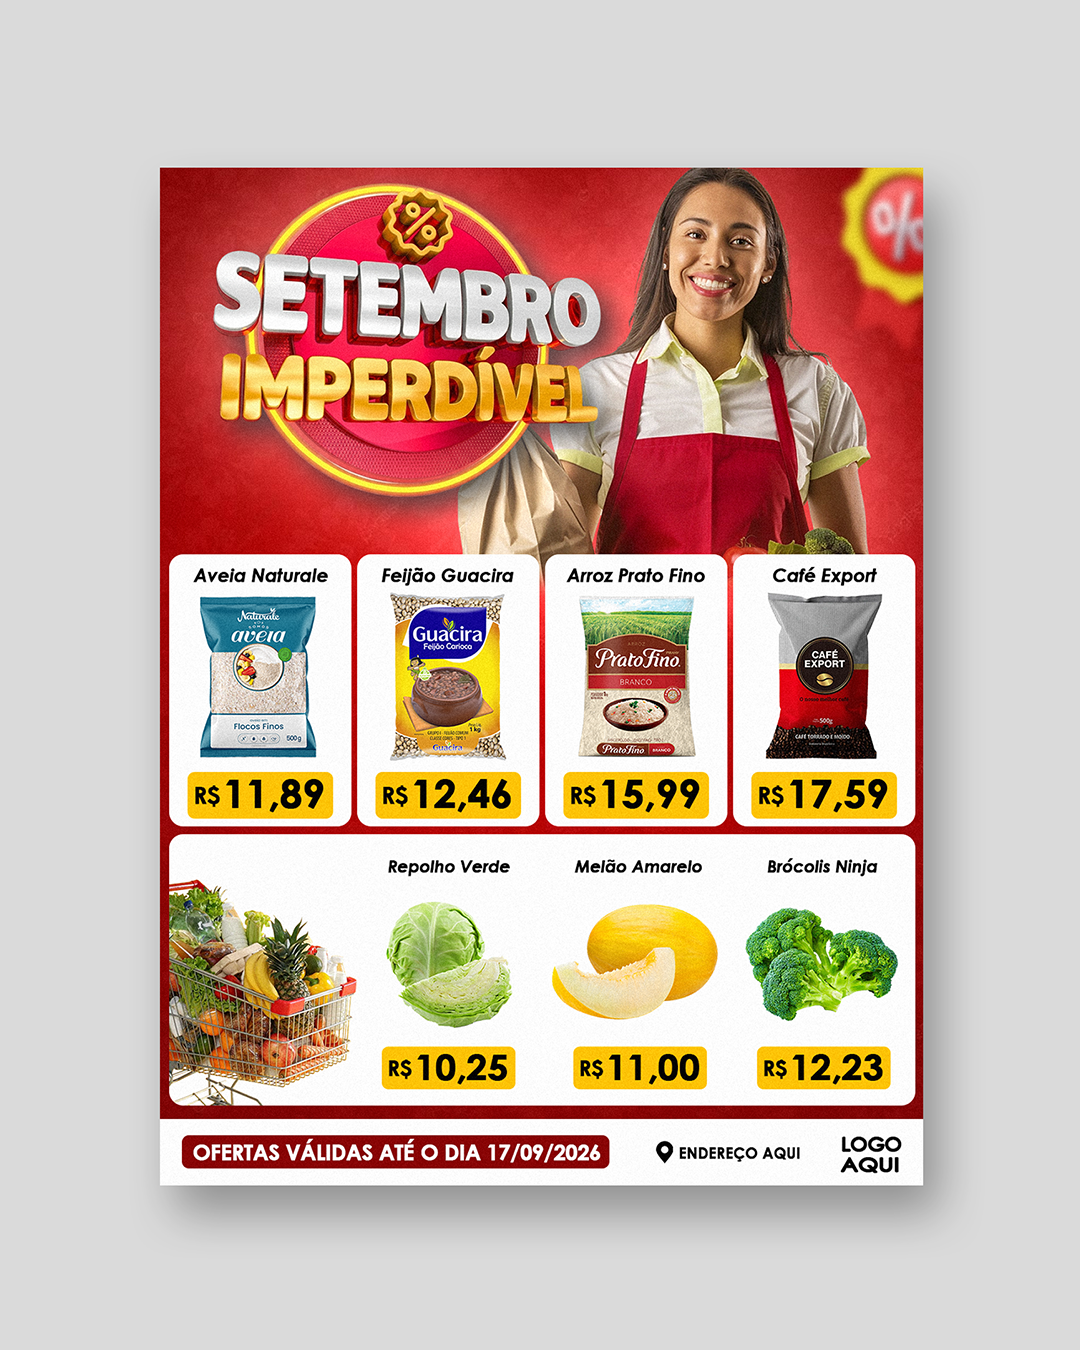
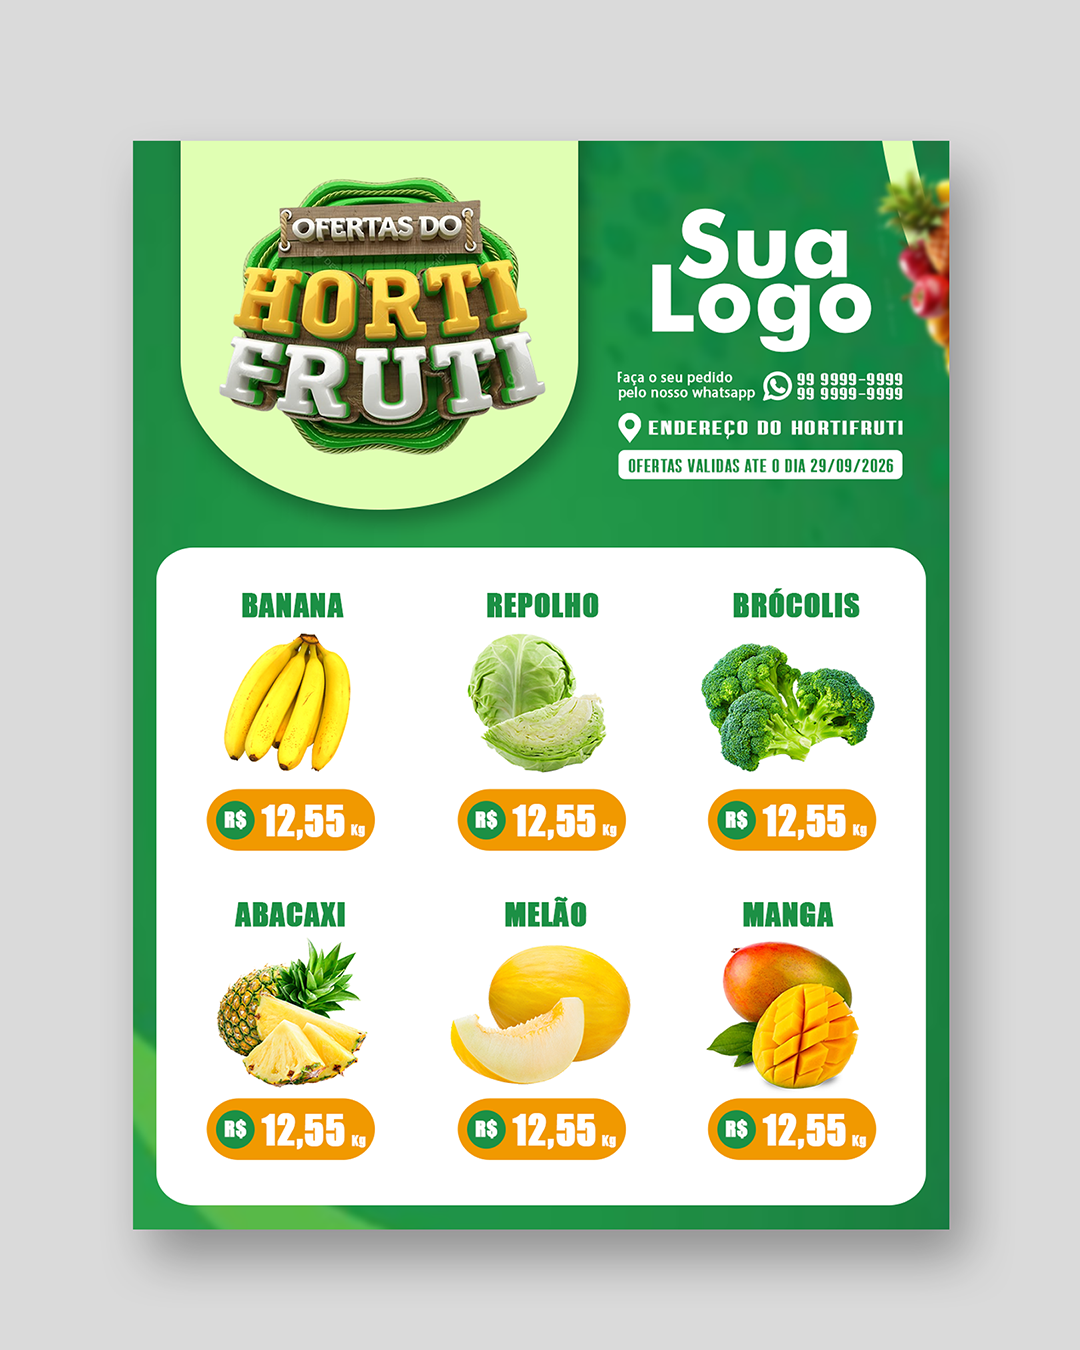
update

diff --git a/public/designer-grafico-para-encartes.html b/public/designer-grafico-para-encartes.html
@@ -1,0 +1,128 @@
+<!DOCTYPE html>
+<html lang="pt-BR">
+<head>
+    <meta charset="UTF-8" />
+    <meta name="viewport" content="width=device-width, initial-scale=1.0" />
+
+    <link rel="icon" href="./siteicon.png" type="image/png">
+    <link rel="apple-touch-icon" href="./siteicon.png">
+    <meta name="theme-color" content="#000000">
+
+    <title>Designer Gráfico para Encartes | Peça Seu Orçamento</title>
+    <meta name="description" content="Designer gráfico especializado na criação de encartes para comércio, desenvolvendo artes profissionais para divulgar produtos, preços, ofertas e promoções. Criação de encartes para supermercados, hortifrutis, açougues, mercearias e outros estabelecimentos comerciais, com layouts organizados e personalizados para divulgação digital ou impressão." />
+    <link rel="canonical" href="https://clebsondesigner.com.br/designer-grafico-para-encartes" />
+
+    <link rel="stylesheet" href="/blog.css">
+
+    <!-- Google tag (gtag.js) -->
+    <script async src="https://www.googletagmanager.com/gtag/js?id=G-HY16R8X68S"></script>
+    <script>
+      window.dataLayer = window.dataLayer || [];
+      function gtag(){dataLayer.push(arguments);}
+      gtag('js', new Date());
+
+      gtag('config', 'G-HY16R8X68S');
+    </script>
+
+</head>
+
+<body>
+    <header>
+        <div class="logo">CLEBSON DESIGNER</div>
+        <div class="tagline">Design profissional para redes sociais</div>
+
+        <nav>
+        <a href="https://clebsondesigner.com.br">HOME</a>
+        <a href="#sobremim">CONTATOS</a>
+        </nav>
+    </header>
+
+    <div class="container">
+        <article>
+            <h1>Criação de Encartes para Comércio</h1>
+
+            <p>
+                Sou designer gráfico freelancer e trabalho com criação de encartes
+                profissionais para comércio. Desenvolvo materiais para divulgar
+                produtos, preços, ofertas e promoções de forma organizada e atrativa.
+                Crio encartes para supermercados, hortifrutis, açougues, mercearias
+                e outros estabelecimentos comerciais.
+            </p>
+
+            <section>
+                <h2>Encartes para Comércio</h2>
+
+                <div class="galeria-artes">
+
+                    <figure>
+                        <img src="./images-pages/encarte-para-supermercado-2.png"
+                            alt="Designer gráfico para encarte de supermercado">
+                        <a href="https://www.instagram.com/p/DdmgwzjFDyp/" target="_blank" class="ir-para-instagram"> Ver no Instagram </a>
+                    </figure>
+
+                     <figure>
+                        <img src="./images-pages/encarte-hortifruti.png"
+                            alt="Designer gráfico para encarte para hortifruti">
+                        <a href="https://www.instagram.com/p/Dd15NUZFNzD/" target="_blank" class="ir-para-instagram"> Ver no Instagram </a>
+                    </figure>
+
+                    <figure>
+                        <img src="./images-pages/encarte-supermercado.png"
+                            alt="Designer gráfico para encarte de supermercado">
+                        <a href="https://www.instagram.com/p/DcjfsG9lFTG/" target="_blank" class="ir-para-instagram"> Ver no Instagram </a>
+                    </figure>
+
+                </div>
+            </section>
+
+            <section>
+                <h2>Criação de Encartes para seu Comércio</h2>
+                <p> Precisa de um encarte para o seu comércio? Entre em contato para solicitar um orçamento e saber mais sobre meu serviço de criação de encartes. Envie as informações do seu projeto e vamos conversar sobre os detalhes. </p>
+            </section>
+
+        </article>
+
+
+        <aside id="sobremim">
+            <h3>SOBRE MIM</h3>
+
+            <!--<img src="./images-pages/my-photo.jpg" class="profile-img" alt="Clebson Designer">-->
+
+            <p>
+                Sou designer gráfico e crio encartes profissionais para comércio, como supermercados, hortifrutis, açougues, mercearias e outros negócios locais.
+            </p>
+
+            <div class="social-links">
+            <a href="https://instagram.com/clebsondesignergrafico" target="_blank" class="btn instagram">
+                Instagram
+            </a>
+
+            <a href="https://wa.me/5575998009769" target="_blank" class="btn whatsapp">
+                WhatsApp
+            </a>
+            </div>
+        </aside>
+    </div>
+
+    <footer>
+        <a href="https://clebsondesigner.com.br">HOME</a>
+        <a href="https://instagram.com/clebsondesignergrafico">INSTAGRAM</a>
+        <a href="#sobremim">SOBRE MIM</a>
+
+        <p style="margin-top:15px;font-size:0.75rem;">
+            © 2026 Clebson Designer
+        </p>
+    </footer>
+
+    <a href="https://wa.me/5575998009769"
+        class="whatsapp-float"
+        target="_blank"
+        aria-label="Fale comigo no WhatsApp">
+
+        <svg viewBox="0 0 32 32" width="28" height="28" fill="white">
+        <path d="M19.11 17.36c-.27-.14-1.6-.79-1.85-.88-.25-.09-.43-.14-.61.14-.18.27-.7.88-.86 1.06-.16.18-.32.2-.59.07-.27-.14-1.15-.42-2.19-1.34-.81-.72-1.36-1.6-1.52-1.87-.16-.27-.02-.41.12-.54.12-.12.27-.32.41-.48.14-.16.18-.27.27-.45.09-.18.05-.34-.02-.48-.07-.14-.61-1.48-.84-2.03-.22-.53-.44-.46-.61-.47l-.52-.01c-.18 0-.48.07-.73.34-.25.27-.96.94-.96 2.29s.98 2.66 1.12 2.84c.14.18 1.93 2.95 4.67 4.14.65.28 1.16.45 1.56.58.66.21 1.26.18 1.73.11.53-.08 1.6-.65 1.83-1.28.23-.63.23-1.17.16-1.28-.07-.11-.25-.18-.52-.32z"/>
+        <path d="M16 0C7.16 0 0 7.16 0 16c0 2.82.74 5.47 2.03 7.78L0 32l8.41-2.02A15.94 15.94 0 0016 32c8.84 0 16-7.16 16-16S24.84 0 16 0zm0 29.33c-2.56 0-4.94-.69-6.99-1.89l-.5-.3-4.99 1.2 1.33-4.87-.33-.5A13.29 13.29 0 012.67 16c0-7.36 5.97-13.33 13.33-13.33S29.33 8.64 29.33 16 23.36 29.33 16 29.33z"/>
+        </svg>
+    </a>
+</body>
+</html>

diff --git a/src/App.css b/src/App.css
@@ -284,7 +284,9 @@ a {
 }
 
 .App main .second-section .portfolio .desc-arts .title.acai {
-  font-size: 3.3rem;
+  font-size: 4rem;
+  margin-bottom: -2svw;
+
 }
 
 .App main .second-section .portfolio .desc-arts .title.esporte {
@@ -731,7 +733,7 @@ a {
   }
 
   .App main .second-section .portfolio .desc-arts .title.acai {
-    font-size: 4.5rem;
+    font-size: 5.7rem;
   }
 
   .App main .second-section .portfolio .desc-arts .title.esporte {
@@ -855,6 +857,10 @@ a {
 
   .App main .first-section {
     height: 87vh;
+  }
+
+  .App main .second-section .portfolio .desc-arts .title.acai {
+    font-size: 3.7rem;
   }
 
   .App main .second-section .portfolio .desc-arts .title.lanche {
@@ -1126,6 +1132,10 @@ a {
     font-size: 5.5rem;
   }
 
+  .App main .second-section .portfolio .desc-arts .title.acai {
+    font-size: 3.1rem;
+  }
+
   .App main .second-section .portfolio .desc-arts .title.pizza {
     font-size: 4.8rem;
   }
@@ -1368,7 +1378,7 @@ a {
   }
 
   .App main .second-section .portfolio .desc-arts .title.acai {
-    font-size: 3.8rem;
+    font-size: 4.5rem;
   }
 
   .App main .second-section .portfolio .desc-arts .title.pizza {
@@ -1458,7 +1468,7 @@ a {
   }
 
   .App main .second-section .portfolio .desc-arts .title.acai {
-    font-size: 6rem;
+    font-size: 7.7rem;
   }
 
   .App main .second-section .portfolio .desc-arts .title.esporte {
@@ -1547,7 +1557,7 @@ a {
   }
 
   .App main .second-section .portfolio .desc-arts .title.acai {
-    font-size: 9rem;
+    font-size: 11rem;
   }
 
   .App main .second-section .portfolio .desc-arts .title.esporte {

diff --git a/src/App.tsx b/src/App.tsx
@@ -293,8 +293,8 @@ function App() {
         <section className='second-section' id='portfolio'>
           <div className='portfolio' data-aos="fade-up" data-aos-duration="1000" data-aos-delay="100">
             <article className='desc-arts'>
-              <h2 className='title acai'>artes<br/>comércio</h2>
-              <p className='art-desc'>Arte criada por Clebson designer gráfico, como encartes, ofertas e materiais de divulgação. Desenvolvidas de forma personalizada para destacar produtos, preços e promoções, ajudando o comércio a divulgar seus produtos com uma comunicação visual clara e atrativa.</p>
+              <h2 className='title acai'>encarte</h2>
+              <p className='art-desc'>Desenvolvo encartes, ofertas e materiais de divulgação. Criados de forma personalizada para destacar produtos, preços e promoções, ajudando o comércio a divulgar seus produtos com uma comunicação visual clara e atrativa.</p>
             </article>
             <div className='arts-examples'>
               <div className='arts-examples-main'>
@@ -321,7 +321,7 @@ function App() {
                     src={Img3}
                     loading="lazy"
                   />
-                  <a href='https://www.instagram.com/p/DdWp54llJ68/' target='blank' className="open-hint" id="Img3">Abrir página</a>
+                  <a href='https://www.instagram.com/p/Dd15NUZFNzD/' target='blank' className="open-hint" id="Img3">Abrir página</a>
                 </div>
               </div>
             </div>
